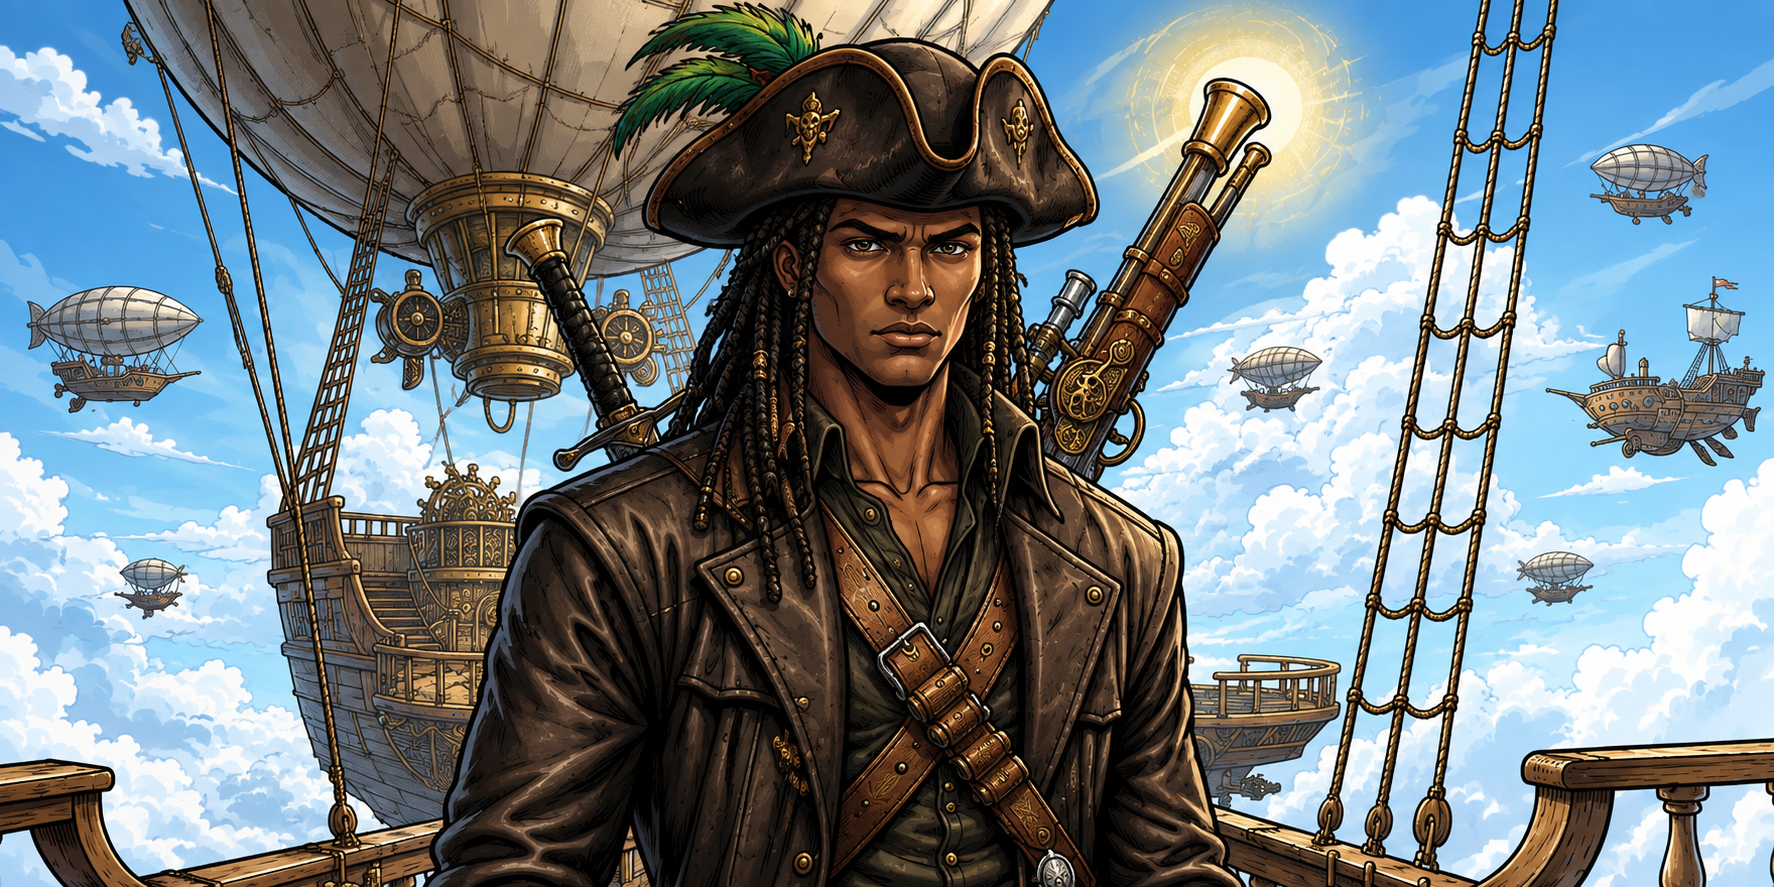
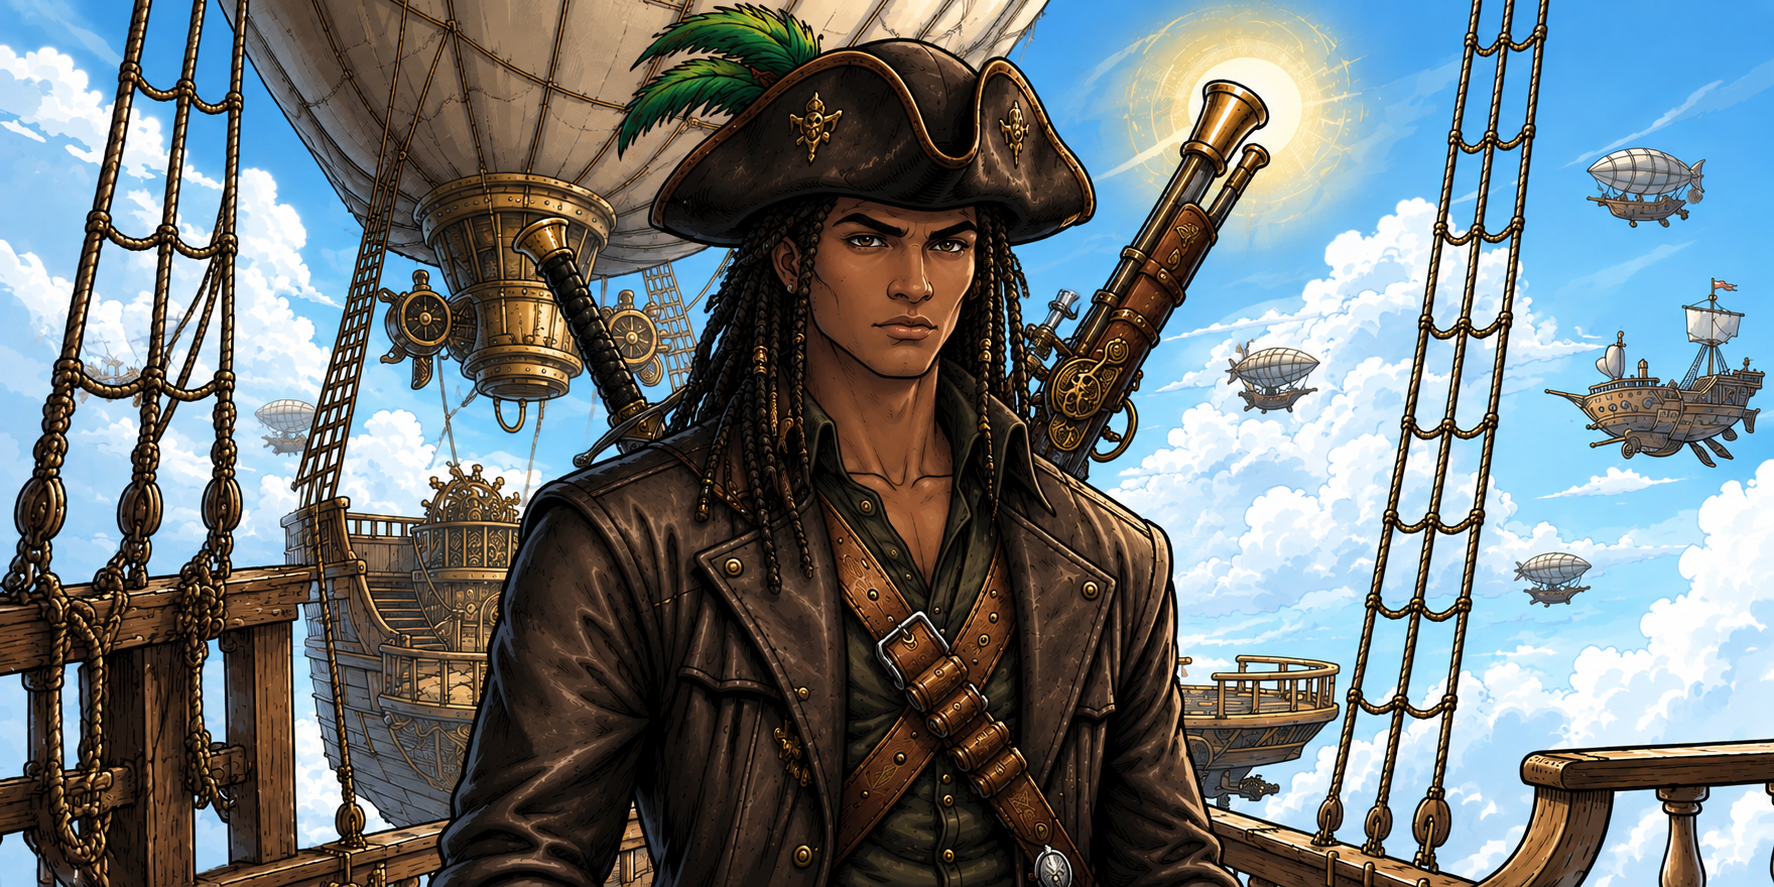
Adição de Assets de Molduras e Aplicação em Universo

diff --git a/src/data/personagens.js b/src/data/personagens.js
@@ -1,11 +1,14 @@
 import imagemKaelis from "../assets/images/kaelis.png";
 import imagemKaelisHero from "../assets/images/kaelis-hero.png";
+import imagemKaelisMoldura from "../assets/images/moldura-outono.png";
 
 import imagemGaren from "../assets/images/garen.jpg";
 import imagemGarenHero from "../assets/images/garen-hero.png";
+import imagemGarenMoldura from "../assets/images/moldura-naval.png";
 
 import imagemRiel from "../assets/images/riel.png";
 import imagemRielHero from "../assets/images/riel-hero.png";
+import imagemRielMoldura from "../assets/images/moldura-cumeada.png";
 
 export const kaelis = {
     nome: "Kaelis",
@@ -14,11 +17,12 @@ export const kaelis = {
     descricao: "A druidesa de Becanlar",
     imagemCard: imagemKaelis,
     imagemHero: imagemKaelisHero,
+    imagemMoldura: imagemKaelisMoldura,
     alt: "Kaelis partindo de Becanlar",
     frase: "Pelo menos eu tenho motivo para ter minhas orelhas assim. Pior é você com essas bolotinhas achatadas por aí. Tem certeza que sua mãe não te trouxe de Rook arrastado por um pé?",
     raca: "Meio-elfa",
     origem: "Becanlar",
-    historia: "Kaelis é uma jovem e habilidosa druidesa transmorfa mestiça criada sob o abrigo dos carvalhos ancestrais de Becanlar. Com o espírito livre e olhar atento para o desenho, a garota de sardas e cabelos cor de fogo luta para dominar sua essência mágica e provar seu valor diante de uma importante tarefa dada à ela por seu povo.",
+    historia: "Kaelis é uma jovem e habilidosa druidesa transmorfa criada sob o abrigo dos carvalhos ancestrais de Becanlar. Com o espírito livre e olhar atento para o desenho, a garota de sardas e cabelos cor de fogo luta para dominar sua essência mágica e provar seu valor diante de uma importante tarefa dada à ela por seu povo.",
     idade: "16 anos",
     trechoLivro: "Sem muitas considerações, agiu de maneira espontânea. Manteve o joelho esquerdo no chão e tocou com a palma da mão na terra úmida. Com a mão esquerda, socou com força seu cajado no solo, firmando-o com afinco. Estava em sua maior conexão com a natureza desde sempre, e sentia a dor dos espíritos antigos da floresta. Então respirou fundo, baixou o rosto, fechou os olhos e, ainda sem um Espírito Guardião que fosse seu patrono, clamou por aquele que era o mais antigo em alto tom de voz: “Mussgon!” Seus olhos verdes vibrantes arregalaram-se. Seus cabelos encharcados passaram a esvoaçar. A garota levantou-se e gritou, mas não era um grito humano, tampouco élfico. Era primitivo, animalesco, feroz.",
     rumores: [
@@ -35,6 +39,7 @@ export const garen = {
     descricao: "O guardião de Vau dos Gansos",
     imagemCard: imagemGaren,
     imagemHero: imagemGarenHero,
+    imagemMoldura: imagemGarenMoldura,
     alt: "Garen chegando em Vardis",
     frase: "Pouco me importa o ouro, que leve tudo. A informação que eu precisava ninguém irá me roubar.",
     origem: "Vau dos Gansos",
@@ -56,6 +61,7 @@ export const riel = {
     descricao: "O ladino de Vardis",
     imagemCard: imagemRiel,
     imagemHero: imagemRielHero,
+    imagemMoldura: imagemRielMoldura,
     alt: "Riel em uma taverna de Vênia",
     frase: "Especialista não... Mestre.",
     origem: "Axxaya / Tanaren",
